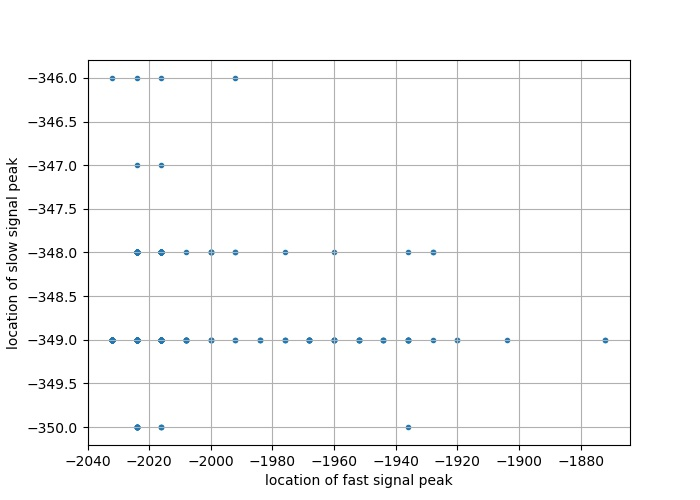
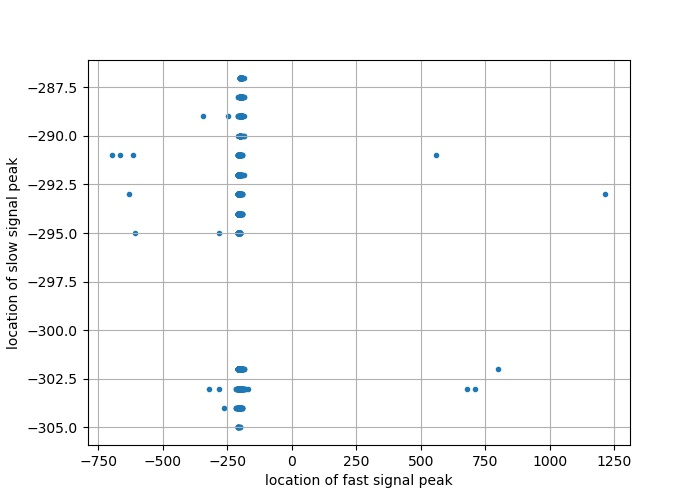
bugfixes

diff --git a/software/correlator.py b/software/correlator.py
@@ -93,14 +93,14 @@ j	= 0 #counter variable for integral arrays
 for i in monosgnl:
 	fastpeaks 	= np.where(fastdata[i]>cutoff)
 	fastint[j]	= np.sum(fastdata[i][fastpeaks])*(Origtime[1]-Origtime[0])
-	fastmax[j]	= np.amax(fastdata[i][fastpeaks])
-	fastloc[j]	= Origtime[np.argmax(fastdata[i][fastpeaks])]
+	fastmax[j]	= np.amax(fastdata[i])
+	fastloc[j]	= Origtime[np.argmax(fastdata[i])]
 
 	slowint[j]	= 0	
 	slowpeaks	= np.where(slowdata[i]>0.05)
 	slowint[j]	= np.sum(slowdata[i][slowpeaks])*(Stramptime[1]-Stramptime[0])
-	slowmax[j]	= np.amax(slowdata[i][slowpeaks])
-	slowloc[j]	= Stramptime[np.argmax(slowdata[i][slowpeaks])]
+	slowmax[j]	= np.amax(slowdata[i])
+	slowloc[j]	= Stramptime[np.argmax(slowdata[i])]
 
 	j += 1
 
